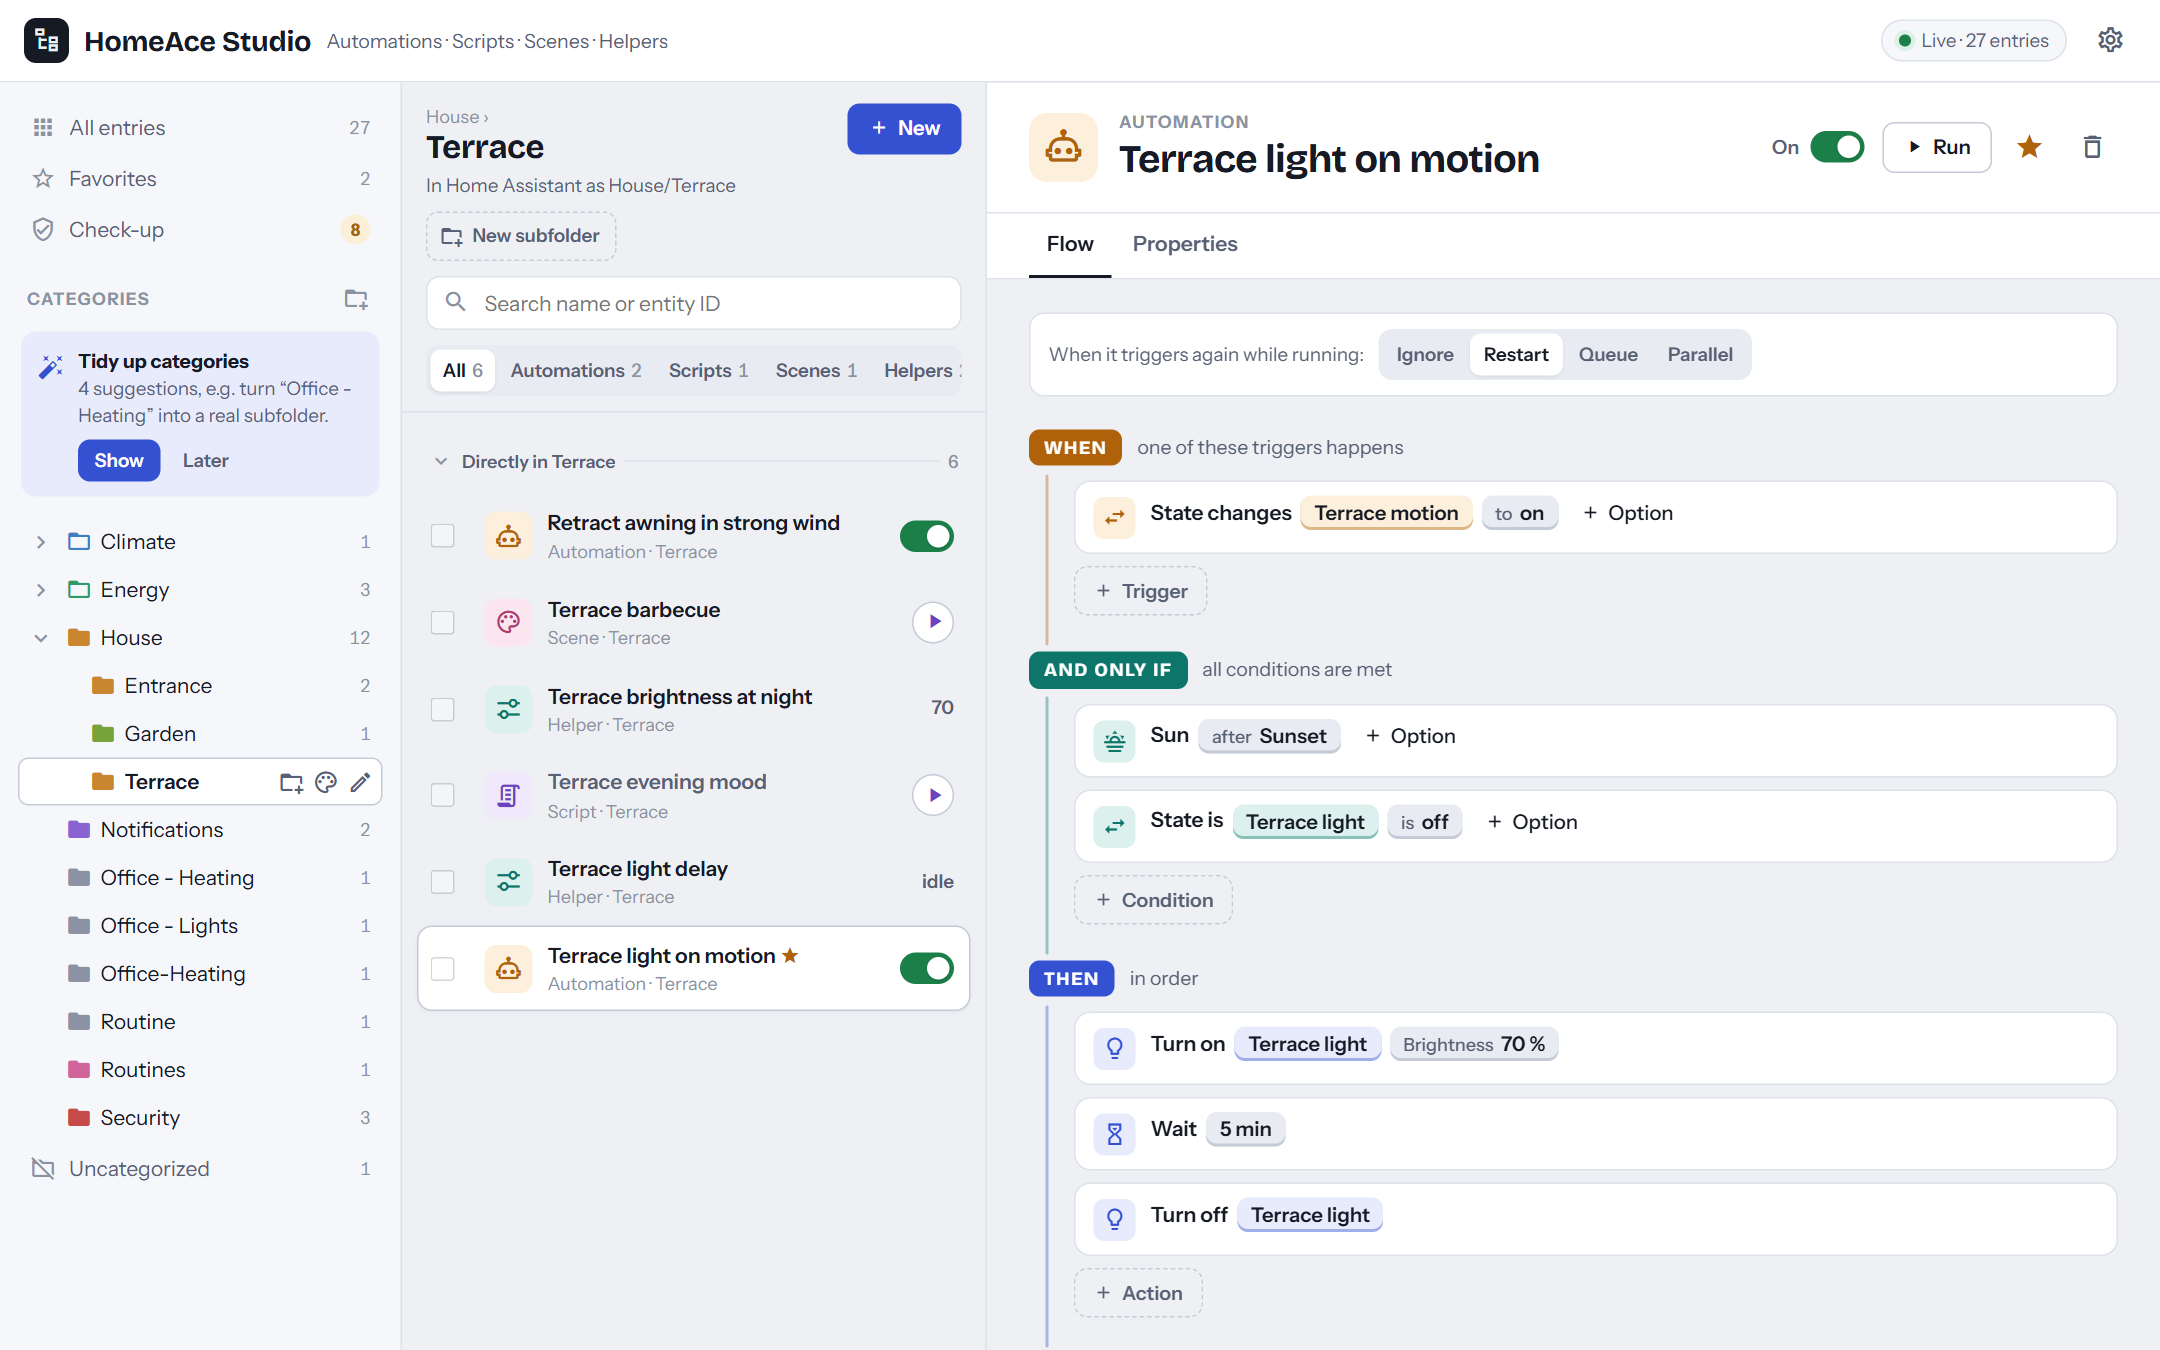
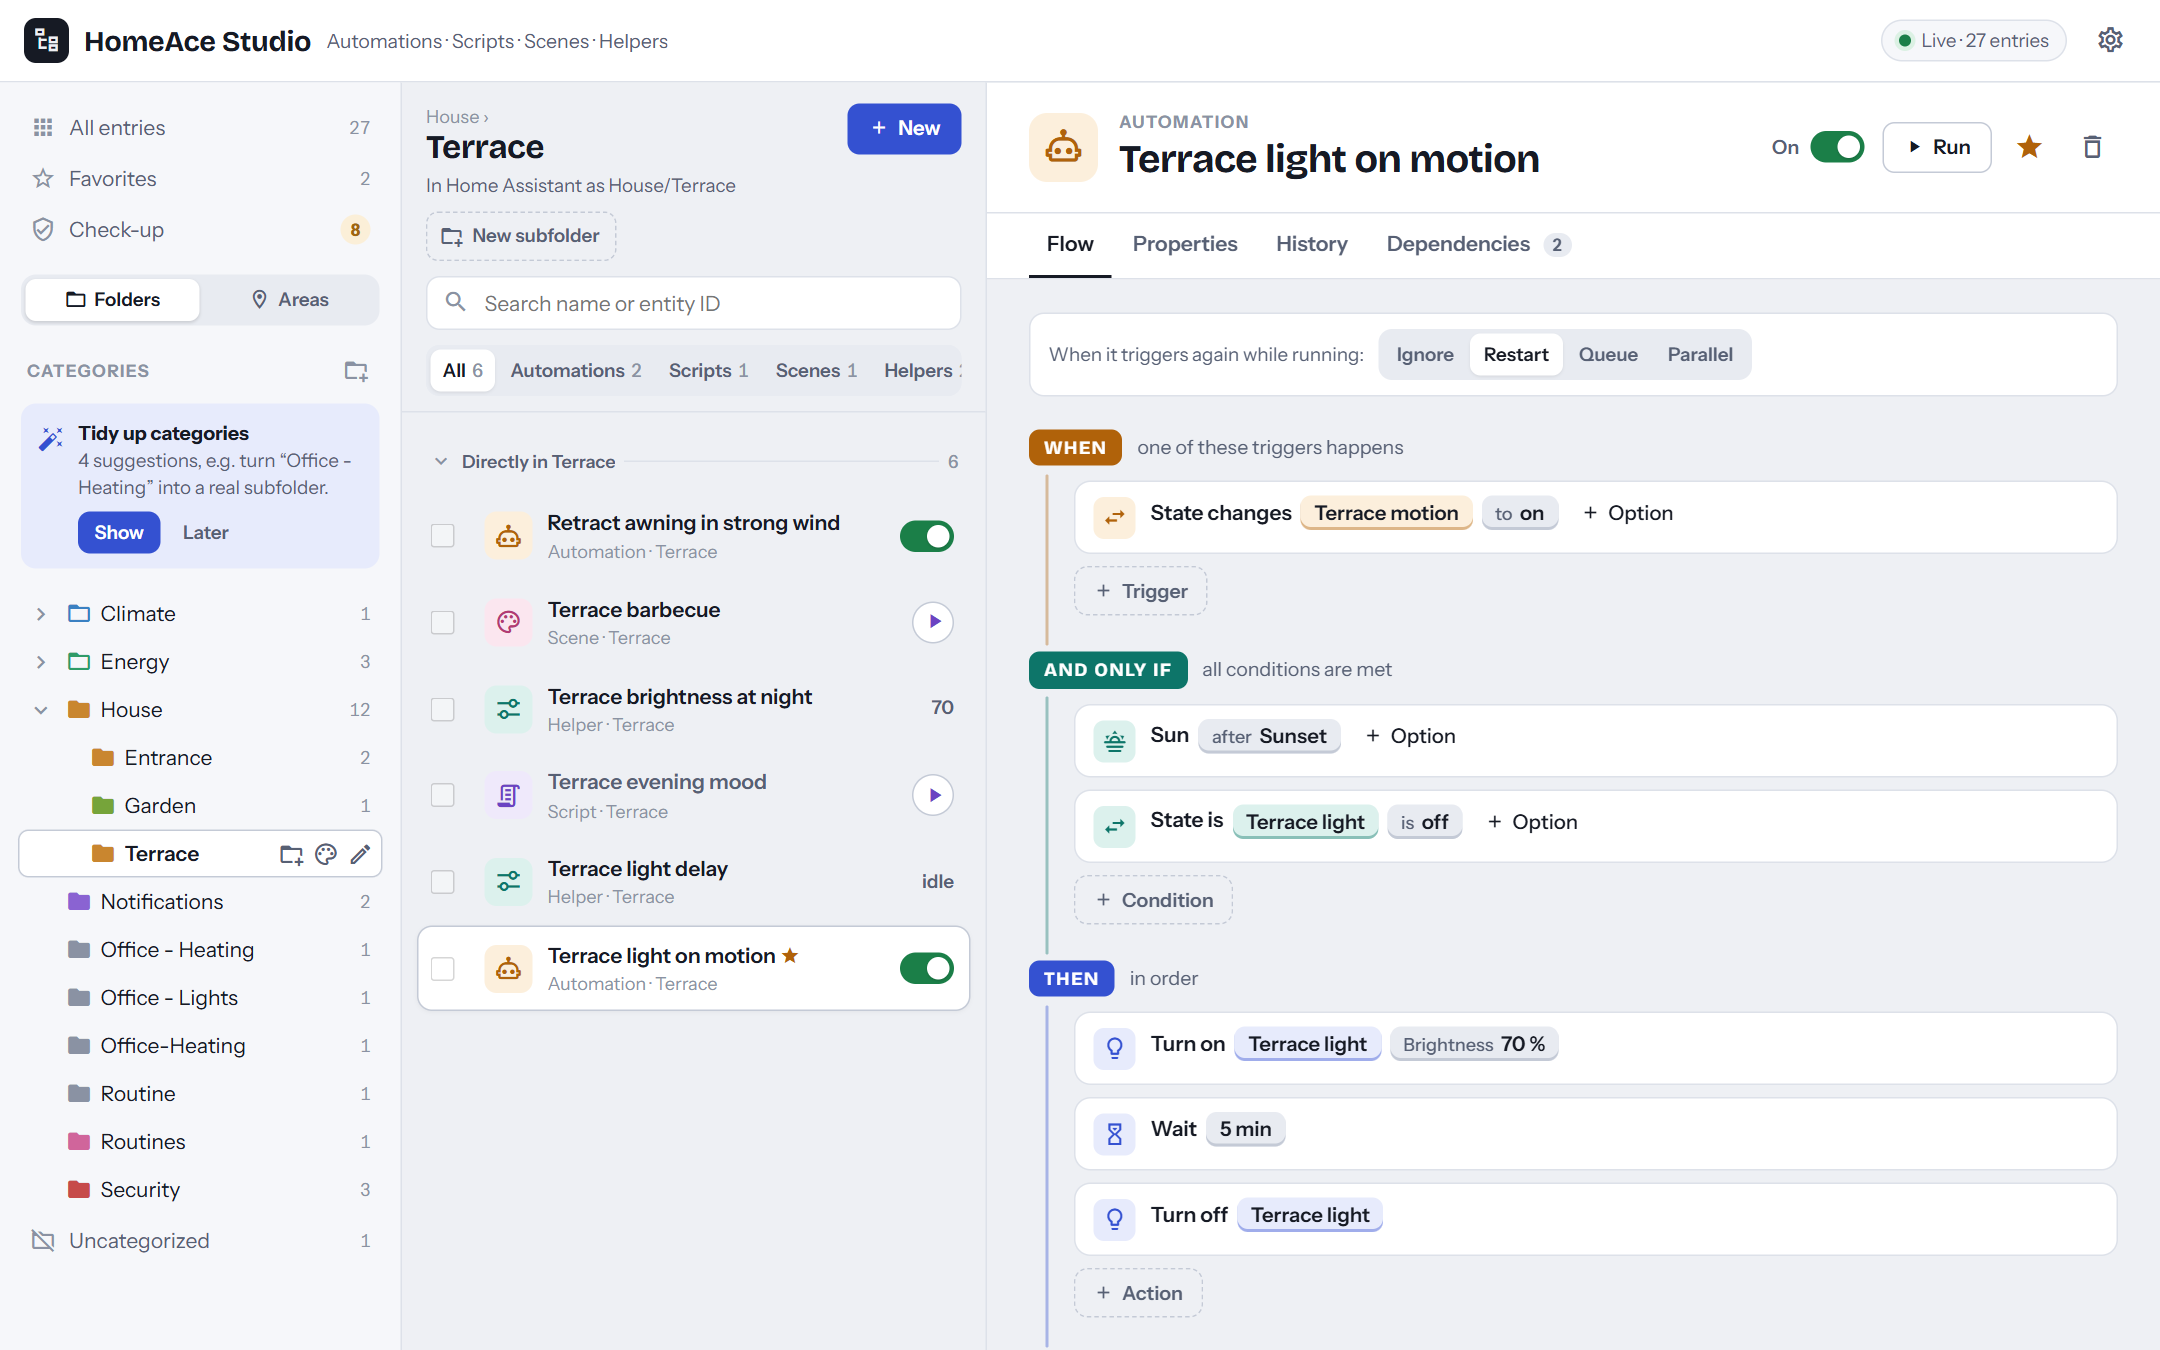
Release 0.11.0: run history, areas, dependencies
README shows the run history, the area view and the dependencies with
new screenshots, mentions failed runs in the check-up and has the
updated roadmap. The other screenshots are fresh too.

diff --git a/README.md b/README.md
@@ -56,10 +56,33 @@ including lights you add later.
 
 **Check-up, no setup needed.** Even if you never sort anything, HomeAce Studio shows what needs a
 look: automations that use devices which no longer exist (marked red in the flow) or are offline
-right now, helpers no automation or script uses, and automations that have not run for months.
+right now, flows whose last run stopped with an error, helpers no automation or script uses, and
+automations that have not run for months.
 Ignore what is fine as it is.
 
 ![The check-up with a flow that points to a removed device](docs/images/checkup-light.png)
+
+**What happened, step by step.** The *History* tab lists the runs Home Assistant kept: finished,
+condition not met, stopped by an error, still running, restarted or ignored. Pick one and it goes
+through the flow block by block: what triggered it, what each condition found ("was 14, wanted
+below 20"), which branch an *if* took, how long it waited, and errors in plain words. *Show on the
+flow* puts the run right onto the blocks you edit. One click lets HA keep 20 runs instead of 5.
+
+![The run history of an automation, block by block](docs/images/history-dark.png)
+
+**Areas without any setup.** Switch the tree from folders to areas. An entry without an area of its
+own counts in the areas of the devices it uses, a helper in those of the flows that use it, and
+every row says why ("through Alarm panel"). Create, rename and delete areas right there, drag
+entries onto an area, and *Tidy up in one click* turns the areas into real folders after a preview.
+
+![The area view: every entry with the reason it belongs to the area](docs/images/areas-light.png)
+
+**See what depends on what.** Every automation, script, scene and helper has a *Dependencies* tab:
+what it uses, grouped by what it does with it (triggers on, checks, controls, reads values,
+starts), with the current state, and who uses it in turn. Deleting something that is still used
+names the flows that would break.
+
+![The dependencies of an automation](docs/images/dependencies-light.png)
 
 **Made to be used everywhere.** Light and dark mode, German and English, all columns resizable,
 and on a phone the list comes first and the details slide in full screen. Technical details such
@@ -75,9 +98,9 @@ as entity IDs stay hidden until you switch them on.
 
 ## Coming next
 
-- Dependencies at a glance: what an automation uses, and what uses this helper.
-- A view by area or device for homes without folders, and turning it into folders in one click.
-- Run history, editing helper settings, scenes.
+- Rename an entity ID together with every flow that refers to it; aliases, hidden and disabled.
+- Editing helper settings, and scenes.
+- Settings per Home Assistant user.
 - A full visual blueprint editor: build blueprints from scratch or from any automation.
 
 ## Try it without Home Assistant

diff --git a/homeace-studio/CHANGELOG.md b/homeace-studio/CHANGELOG.md
@@ -1,6 +1,6 @@
 # Changelog
 
-## Unreleased
+## 0.11.0
 
 - Dependencies: every automation, script, scene and helper has a tab "Abhängigkeiten". It shows what
   the entry uses, grouped by what it does with it (triggers on, checks, controls, reads values,
